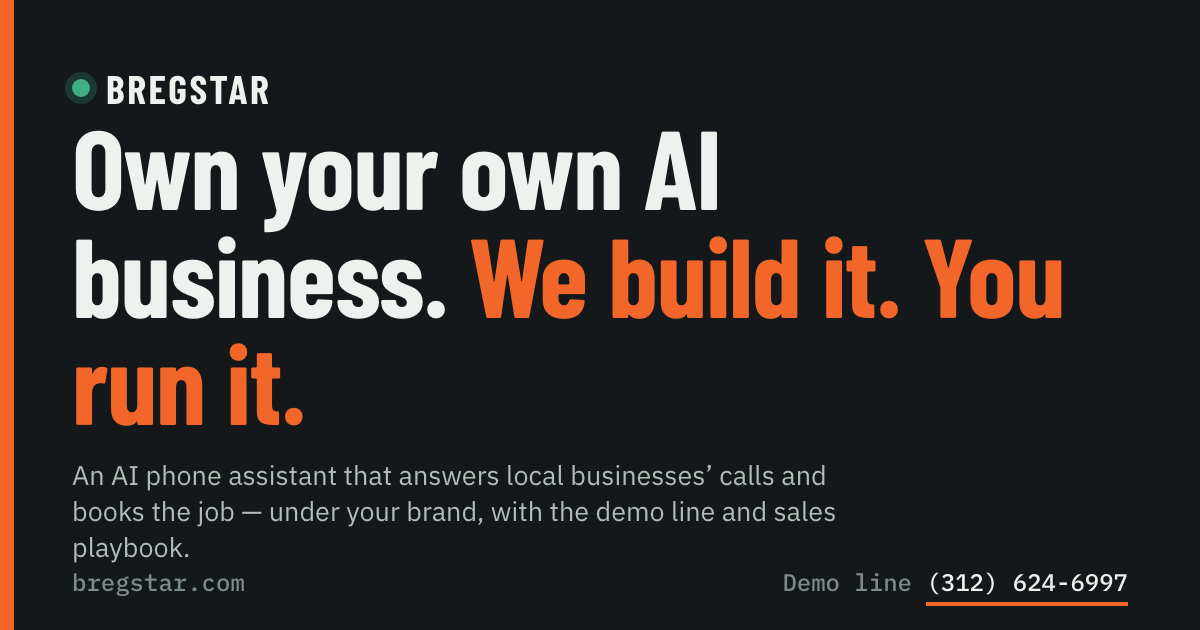
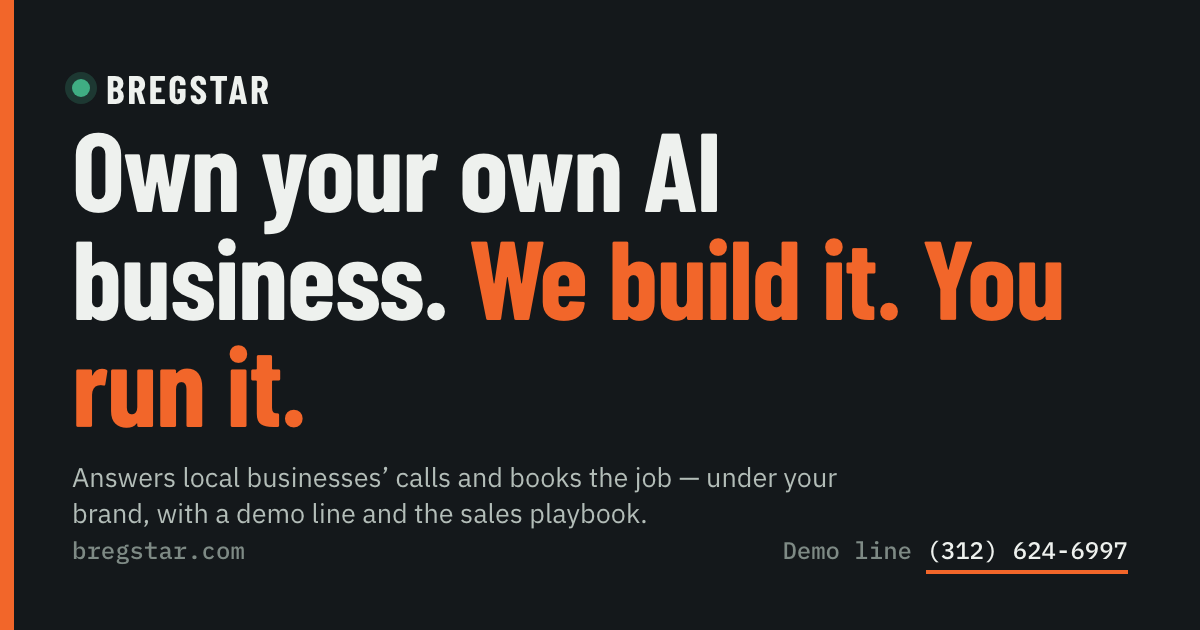
Home card: two-line subtitle

diff --git a/assets/src/og-home.html b/assets/src/og-home.html
@@ -13,6 +13,6 @@
   .stripe{position:absolute;left:0;top:0;bottom:0;width:14px;background:#f2662a}
 </style></head><body><div class="card"><div class="stripe"></div>
 <div class="mark"><span class="dot"></span>Bregstar</div>
-<div><h1>Own your own AI business. <span>We build it. You run it.</span></h1><div class="sub">An AI phone assistant that answers local businesses’ calls and books the job — under your brand, with the demo line and sales playbook.</div></div>
+<div><h1>Own your own AI business. <span>We build it. You run it.</span></h1><div class="sub">Answers local businesses’ calls and books the job — under your brand, with a demo line and the sales playbook.</div></div>
 <div class="foot"><span>bregstar.com</span><span>Demo line <b>(312) 624-6997</b></span></div>
 </div></body></html>
